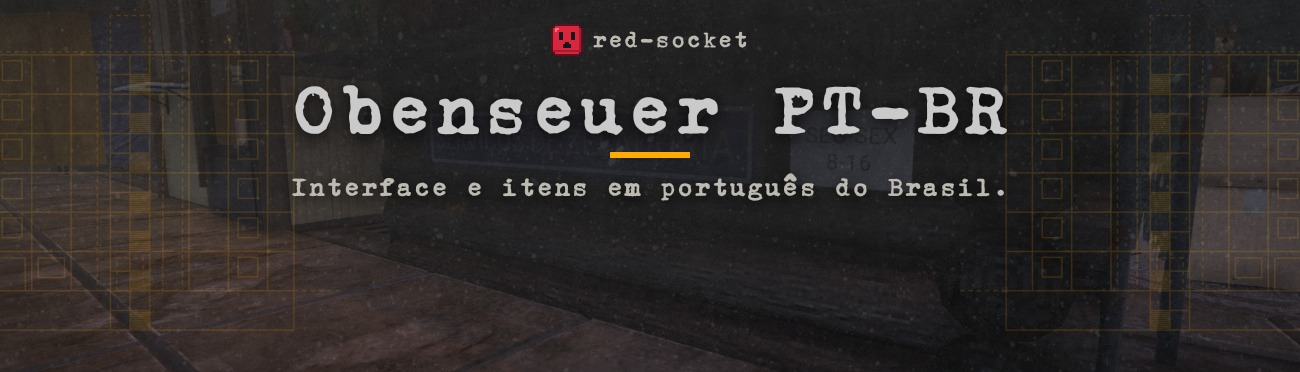
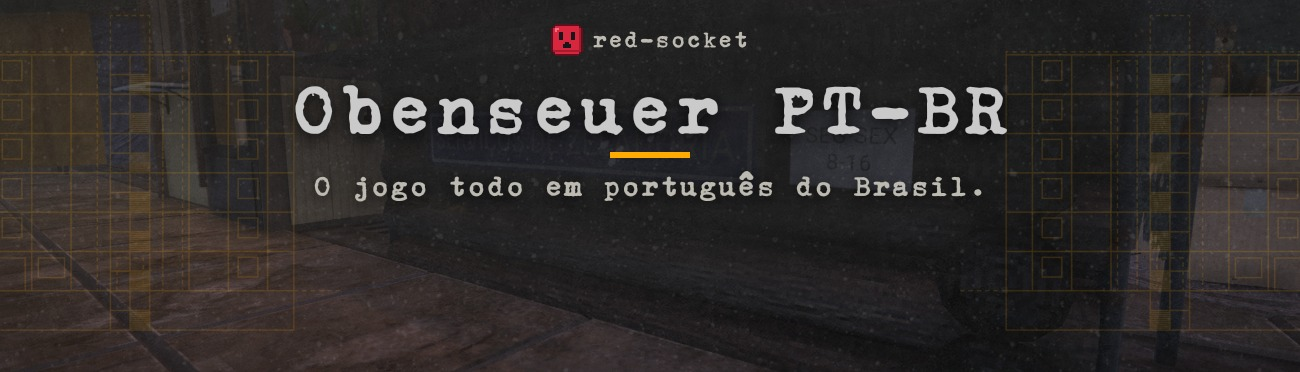
chore(repo): prepare 0.5.0, the first public release
- Plugin version 0.5.0; the unreleased 0.1.0 to 0.4.2 entries merged into one CHANGELOG entry.
- README: current status (textures included), texture and other-mod rows, packaging.
- Nexus header tagline covers the whole game.
- tools/package.sh: release zip from an allowlist of tracked files, laid out as BepInEx/plugins/ObenseuerPTBR/.

Changed region(s): [[0.2154, 0.4435, 0.7692, 0.5323]]

diff --git a/mod/ObenseuerPTBR/Plugin.cs b/mod/ObenseuerPTBR/Plugin.cs
@@ -16,7 +16,7 @@ namespace ObenseuerPTBR
     {
         public const string Guid = "redsocket.obenseuer.ptbr";
         public const string Name = "Obenseuer PT-BR";
-        public const string Version = "0.4.2";
+        public const string Version = "0.5.0";
         public const string TestedGameVersion = "0.5.19";
 
         internal static ManualLogSource Log;

diff --git a/CHANGELOG.md b/CHANGELOG.md
@@ -1,56 +1,26 @@
 # Changelog
 
-## 0.4.2 (unreleased)
+## 0.5.0 (unreleased)
 
-Fixes from the first full play session:
+First public release. The whole translation is a first draft. Every line is still marked as unreviewed in the `.po` files, and the game shows these drafts by default (the `ShowUnreviewedDrafts` setting). Reviews and corrections will come in later versions.
 
-- Gendered words in dialogue no longer show both forms ("{{Bem-vindo|Bem-vinda}}"). The plugin now resolves them before the game builds the subtitle.
-- Notes and emails are translated in the Notes tab. Text you type in your own notebooks is left alone.
-- About 650 more interface strings: tooltip lines ("Valor estimado", "Queima por", "Estragando"), interaction prompts ("(Colher) (Segure - Continuar colhendo)"), crafting station names, key names, trader wealth, save slot names, needs warnings ("Sede!") and the controls hint line at the bottom of the menu.
-- Renovation tasks read naturally ("Prédio: escadaria (surrado)") and include the courtyard, roof and other targets.
-- Item names built from pieces are translated ("Galão plástico com água limpa", "Pote de vidro (vazio)").
-- The same English word can now have different translations in different places: the inventory button says "Beber" while the item type stays "Bebida", and the backpack tab says "ABRIR" while the bar sign says "ABERTO".
-- Labels that flickered between two sizes (furniture shop) settle on one size, and auto-sized labels can shrink a little further instead of cutting the text off.
-- Notes opened from the list are translated too. Before, the title and text of some notes (the bridge toll note, for one) stayed in English.
-- The typewriter font used in menus and notes drew ã and õ with a smudge instead of a tilde, and put the accent of capitals like Á and Ô on top of the letter. Those letters are now redrawn when the game starts, from the font's own letters and accents. The `FixTypewriterAccents` setting turns this off.
-- More text built by the game from pieces: the hostel bed menu ("Quarto 2, cama 6: 33 OC por noite"), the sleep timer ("Dormindo: Um dia"), the bed comfort prompt, crafting details (process time, fail chance, power), station modifiers, crime notifications ("Furto +505"), the building map tooltips, the mine cart controls and the "Segure - Comer" style prompts for every item action.
-- Task descriptions with a second paragraph are translated in full. Before, the last paragraph stayed in English.
-- A label that has rich text turned off no longer shows a raw `<size=...>` tag when the Portuguese is longer.
-- Labels next to an icon are shrunk instead of widened, so the text no longer slides under the icon ("ancelar" on the sleep screen).
-- With the BetterTenement mod installed, its Landlord Ledger window, upgrade cards and map tooltips are in Portuguese too ("Livro-caixa", "Sem efeito no aluguel", "Próximo: …"). Without BetterTenement nothing changes.
-- Resident tooltips: "Estado civil" and "Profissão" are translated, and the relationship and job follow the resident's gender ("Noiva", "Professora").
-- Deeply nested labels, such as a tooltip line with colour tags and a " · " separator, are translated all the way down ("Próximo: Suja").
-- About 100 strings the text extractor had missed: the descriptions in the health and needs tooltips, the card game tutorials, building mode warnings ("Não dá para colocar aqui!"), the effects of the starting choices and the renovation cleanup notice ("4 itens foram embalados...").
-- The doctor's addiction diagnosis is now a proper Portuguese sentence ("Você está muito viciado em álcool e nicotina."). The game builds it from English pieces, so the plugin rebuilds it from the same addiction levels.
-- Three hundred and fifteen signs, screens and maps with English text are now in Portuguese: warning and notice signs (high voltage, radioactive area, private property, the Bergmann tunnel signs, the "out of stock" notice in shops), the passport ticket machine and ATM screens, the green exit lights, the exit signs in the mall corridors, the "call the guard" plate, the hot water tank sign, the alarm signs at the Elström, Skeida, Rob-In and duty-free shops, the notes on the reception desks, the hostel bathroom signs, the security alarm label, the floor signs by the mine elevator, the metro and mine ticket machines, the number dispenser, the quarantine checkpoint notice, the mushroom extraction machine screens, the flashlight, the parcel locker screen, the military area sign, two metro station signs, a few hazard labels, the Kolhola resident board, the floodgate control panel, the Osrat chalkboard, the teletext news page on the TVs, the metro maps, the street map of the tenement area, the Stalburg Mail inbox, and shop signs and windows (opening hours, the Skeida pharmacy, the gym, the casino, the detention center, the lan house, the liquor shop, the barber, the mine motel, the general trader's board, the Ankea posters, the Kurahaara farm sign, the Möbelmann furniture shop, a beer sign, the Osmo Olut poster, the chalk menus, the Rosso photo shop, the Open Sewer signs, a note about the fungal disease, the ATM signs, the mine and O-Iron aisle signs, the bins, the LED open sign, the danger and dead-end signs, an alcohol aisle sign, a cold drinks poster, the Skeida pharmacy hours, the power company badge, more shop and aisle signs, the mine canteen menu, the bus timetable, the grill hours, the Rob-In sign, the phone booth, a scratchcard display, the ice cream freezer, a motivational poster, the bus line display, the Elström TV screens, a newspaper stand, the Jermu's and rat seller machine displays, a biohazard sign, the "think positively" posters, the Internet, Stalburg Steel and "they poison your mind" posters, a missing dog flyer, a contract work brochure, the books wanted, pineapple book, therapy, kebab, Hawaii party and sheep book posters, the pharmacy brochures, the money, corruption, karaoke, Feeble Screams, cat, metal and Godfather book posters, two flea market flyers, the fungal disease chart, the bank, funeral home, gym and paint shop brochures, a power cut flyer, a menu brochure, the dental chart, the periodic table, a corkboard poster, the inventory pictures of three posters, the grill and fast-food menus, The Damnation and Hobopolis cinema posters, the Osmo Olut brewery poster and ad, the pictures in the Ankea and cigar e-mails, the radiation dose and pork cuts charts, the Walter logo, the magazine covers and three of their inventory pictures, the book covers on the shelves, the face mask, soap, hot dog, water, copy paper, rat bait, dog food, paint, homebrew beer, snus, toilet paper and nails packaging, the biohazard, asbestos and prisoner's bags, the organ cooler, the jail keycard, the ammonium nitrate, limestone and gravel sacks, the parcel notice card, the cachaça bottle label and Otto's cachaça picture, the phone book cover, Aziz's kebab sign, two scratch cards and a few door and shop notices). Signs drawn in pixel lettering keep it. The plugin replaces each sign's texture in memory when the game loads it and leaves the game files alone. More shop fronts, posters and packaging come in later versions.
+### What's translated
 
-## 0.4.1 (unreleased)
+- Menus, options, key bindings and character creation.
+- Every item name and description (1,244 items), all 935 recipes and 908 pieces of furniture.
+- Interface labels, tooltips, prompts, notifications, loading-screen tips and the names of things you look at.
+- All 48 tasks and their 270 objectives, quest items, blueprints, the 94 notes, the emails and the two books.
+- All dialogue: 488 conversations, about 10,500 lines and replies. Lines addressed to your character follow its gender ("Você está cansado/cansada?"), and so do the words the game slips in about your character ("garoto", "senhor").
+- Speaker names that are titles rather than names ("Guarda", "Padre"). People's names stay as they are.
+- Text the game puts together from pieces: messages like "Encher um tanque com …", renovation tasks ("Prédio: escadaria (surrado)"), item names ("Pote de vidro (vazio)"), the hostel bed menu, the sleep timer, crafting details, crime notifications and the doctor's addiction diagnosis.
+- 315 textures with English text: signs, notices, screens, maps, posters, menus, magazine and book covers, and packaging. Signs drawn in pixel lettering keep that style. Brand and place names stay as they are. More posters and packaging will follow.
+- With the BetterTenement mod installed, its ledger window, upgrade cards and map tooltips are in Portuguese too. Without it, nothing changes.
 
-- Speaker names on subtitles and phone calls are translated when they are titles rather than names ("Guarda", "Padre", "Serviço de emergência"). People's names stay as they are.
-- Labels in front of a colon are translated even when the value after it isn't known ("Qualidade: OK").
-- The `CollectUntranslated` log skips text that is already in Portuguese and records the scene and object each English label appeared on.
+### How it works
 
-## 0.4.0 (unreleased)
-
-- Draft translation of all dialogue: 488 conversations, about 10,500 lines and response options, using the Dialogue System's own language support. Untranslated lines stay in English.
-- Lines addressed to your character, or spoken by them, follow your character's gender ("Você está cansado/cansada?").
-- The words the game inserts into dialogue from your character's age and gender ("boy", "sir", "he") are now in Portuguese too.
-
-## 0.3.0 (unreleased)
-
-- Draft translations of every task and objective (48 tasks, 270 objectives), the quest items and blueprints, all 94 notes, the emails and the two books, and 908 furniture names and descriptions.
-- Task and note titles are translated only on screen. The game matches saved tasks and notes by their English title, so those stay untouched.
-- Renovation tasks that the game builds while you play ("Apt 5 makeshift kitchen") are translated, and so are objective counters and "(Optional)".
-- Labels in a different letter case than the English (all caps, lower case inside a sentence) now find their translation.
-
-## 0.2.0 (unreleased)
-
-- Draft translations of every item name and description (1,244 items), all 935 recipe names, the interface labels in scenes and prefabs, object names and prompts you see when you look at things, loading-screen tips, and the notifications and buttons set by the game's code.
-- Templates translate messages the game assembles from pieces, such as "Items added (3)!" or "Fill a Tank With Diesel".
-- If a game font has no accented characters, the plugin falls back to one that does.
-- All drafts are marked "needs review" in the .po files and shown in game by default (`ShowUnreviewedDrafts`).
-
-## 0.1.0 (unreleased)
-
-- Proof of concept: main menu, pause menu, options, key bindings and character creation labels, and 40 items in Brazilian Portuguese.
-- Translations are gettext `.po` files; anything untranslated stays in English.
+- The plugin applies the translation in memory while the game runs. It doesn't change game files or write anything to your saves, so you can remove it at any time and the game goes back to English.
+- The game matches saved tasks and notes by their English titles, so those titles are translated only on screen.
+- When a Portuguese label is longer than the English one, the plugin widens it or scales the text down a little to fit.
+- The game's typewriter font draws ã and õ with a smudge and puts the accents of capitals like Á on top of the letter. The plugin redraws those letters when the game starts.
+- If a game font has no accented letters, the plugin uses one that does.
+- Settings are in `BepInEx/config/redsocket.obenseuer.ptbr.cfg`. `Enabled`, `TranslateTextures` and `FixTypewriterAccents` turn each part off. `ShowUnreviewedDrafts` and `CollectUntranslated` are for translators.

diff --git a/README.md b/README.md
@@ -1,8 +1,8 @@
 # Obenseuer PT-BR
 
-An unofficial Brazilian Portuguese (PT-BR) translation of [Obenseuer](https://store.steampowered.com/app/951240/Obenseuer/) by Loiste Interactive, packaged as a BepInEx 5 plugin. Releases will go up on [Nexus Mods](https://www.nexusmods.com/obeseuer).
+An unofficial Brazilian Portuguese (PT-BR) translation of [Obenseuer](https://store.steampowered.com/app/951240/Obenseuer/) by Loiste Interactive, packaged as a BepInEx 5 plugin. Releases go up on [Nexus Mods](https://www.nexusmods.com/games/obeseuer) and on the GitHub releases page.
 
-Status: the first draft is complete and under review. It covers menus, items, recipes, furniture, interface labels, object names, notifications, tasks, notes, quest items and all dialogue. Textures with text, such as signs and posters, are still in English.
+Status: the first draft is complete and under review. It covers menus, items, recipes, furniture, interface labels, object names, notifications, tasks, notes, quest items, all dialogue and 315 textures with English text (signs, screens, maps, posters and packaging). See the [CHANGELOG](CHANGELOG.md) for details.
 
 The plugin translates the game in memory while it runs. It doesn't change any game files or write anything to your saves, and removing it brings back the English text.
 
@@ -21,6 +21,8 @@ The plugin translates the game in memory while it runs. It doesn't change any ga
 | Recipe names | `StreamingAssets/Recipes.json` | Translated in memory, like items. |
 | Tasks, notes, quest items, furniture | ScriptableObjects | Translated where they are displayed. Saved titles stay English, because the game matches saved tasks and notes by title. |
 | Dialogue | Dialogue System database | Added in memory as the Dialogue System's own Portuguese fields. Lines addressed to your character use `{{masculine\|feminine}}` forms, picked from your character's gender. |
+| Signs, screens, posters, packaging | Textures | Each redrawn texture in `textures/pt-BR/` replaces the game's texture of the same name in memory when the game loads it. The sources and the scripts that draw them are in `art/textures/`. |
+| Other mods' windows | The mod's own code | With the BetterTenement mod installed, the English text in its windows is replaced at load time with the entries in `mods.po`. |
 
 The translations are gettext `.po` files in `translations/pt-BR/`, one per domain. Each entry has a stable key in `msgctxt` (for example `item.17260.title`), except interface labels, which use their English text as the key. Anything missing or untranslated shows in English.
 
@@ -41,6 +43,8 @@ dotnet build -c Release -p:Deploy=true   # also copies the plugin and translatio
 ```
 
 The build looks for the game in the default Steam library under `~/.local/share/Steam`. Point it elsewhere with `-p:GameDir=/path/to/Obenseuer`.
+
+`tools/package.sh` builds the release archive, `releases/ObenseuerPTBR-<version>.zip`. It contains only the plugin, the translations, the textures, the license and the changelog, laid out as `BepInEx/plugins/ObenseuerPTBR/` so you can extract it straight into the game folder.
 
 ## License
 
